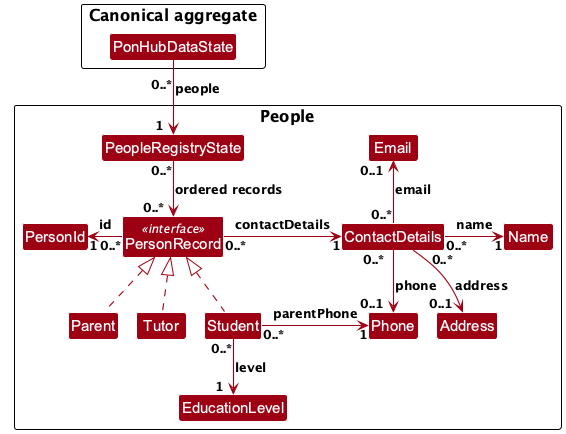
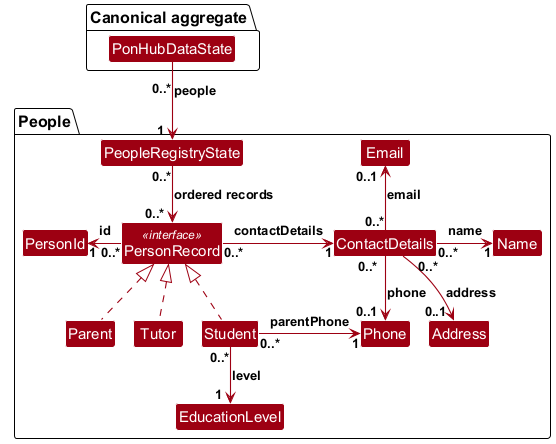
Correct remaining UML notation and diagram context

diff --git a/docs/DeveloperGuide.md b/docs/DeveloperGuide.md
@@ -219,7 +219,7 @@ Parsing errors and domain rule violations stop before step 3. Valid commands tha
 <figure class="dg-figure">
 <figcaption>UI controllers, panels and cards</figcaption>
 <div class="dg-ui-class-scroll" tabindex="0" role="region" aria-label="UI class diagram; scroll horizontally to see all classes">
-<a href="images/UiClassDiagram.png"><img src="images/UiClassDiagram.png" alt="UiManager implements Ui and creates MainWindow. MainWindow connects the UI components through Logic; each list panel creates its cards. The legend summarizes shared UiPart inheritance."></a>
+<a href="images/UiClassDiagram.png"><img src="images/UiClassDiagram.png" alt="UiManager implements Ui and creates MainWindow. MainWindow connects the UI components through Logic; each list panel creates its cards. A note summarizes shared UiPart inheritance."></a>
 </div>
 </figure>
 
@@ -512,9 +512,9 @@ Attendance records an outcome for one Student, one lesson and one date. It is st
 #### History after unenrolment
 
 <figure class="dg-figure">
-<figcaption>Unenrolment retains dated attendance</figcaption>
+<figcaption>Membership and dated attendance transitions</figcaption>
 <div class="dg-edit-flow-scroll" tabindex="0" role="region" aria-label="Unenrolment retains dated attendance">
-<a href="images/DomainAttendanceHistory.png"><img src="images/DomainAttendanceHistory.png" alt="For one Student, lesson and date, marking creates attendance, unenrolment retains it, and unmark removes the dated record."></a>
+<a href="images/DomainAttendanceHistory.png"><img src="images/DomainAttendanceHistory.png" alt="For one existing Student, lesson and date, enrolment and attendance change independently. Unenrolment retains attendance, unmark removes it, and retained dates remain correctable."></a>
 </div>
 </figure>
 

diff --git a/docs/Documentation.md b/docs/Documentation.md
@@ -60,6 +60,17 @@ Before requesting review:
 5. Keep detailed source/build/preview records in the corresponding issue description/comments. Include a concise
    validation summary and any outstanding checks in the PR.
 
+Use **PlantUML 1.2025.3** for diagram updates (Java 25); Graphviz is needed for class diagrams.
+From the repository root, render each changed source and commit its PNG output together:
+
+```sh
+java -jar /path/to/plantuml-1.2025.3.jar -charset UTF-8 -tpng -o ../images docs/diagrams/NAME.puml
+```
+
+Multiple diagrams in one source also produce numbered images such as `NAME_001.png`.
+Inspect every output in its guide context. Existing unchanged PNGs may have been rendered with older
+versions; regenerate them with the pinned version when their source changes.
+
 For more detail, use the [Google developer documentation style guide](https://developers.google.com/style),
 [SE-EDU Markdown conventions](https://se-education.org/guides/conventions/markdown.html),
 [PlantUML guide](https://se-education.org/guides/tutorials/plantUml.html) and
